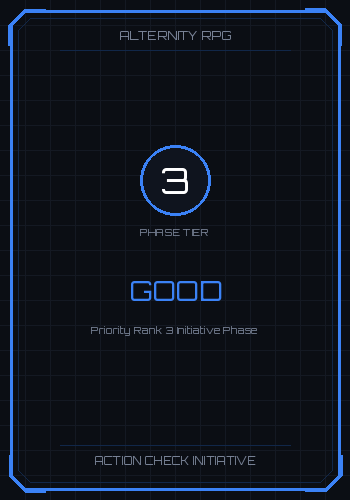
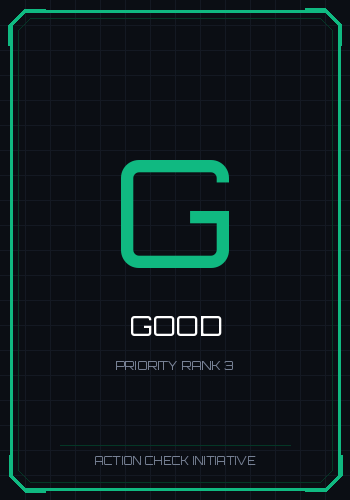
style: redesign initiative cards with huge AGOM letters and updated colors

diff --git a/generate_cards.py b/generate_cards.py
@@ -69,45 +69,24 @@ def draw_sci_fi_card(phase_name, priority, color_hex):
     # Bottom-Right
     draw.line([(w-10, h-45), (w-10, h-25), (w-25, h-10), (w-45, h-10)], fill=accent_color, width=4)
     
-    # Draw header text: "ALTERNITY"
-    font_alt = get_font(12)
-    draw.text((w/2, 35), "ALTERNITY RPG", fill=gray, font=font_alt, anchor="mm")
+    # Huge Central Letter (A, G, O, M)
+    central_letter = phase_name[0].upper()
+    font_large_letter = get_font(150)
+    draw.text((w/2, h/2 - 40), central_letter, fill=accent_color, font=font_large_letter, anchor="mm")
     
-    # Tech line under header
-    draw.line([(60, 50), (w-60, 50)], fill=accent_dim, width=1)
-    
-    # Priority circle in center-top
-    circle_r = 35
-    circle_center = (w/2, h/2 - 70)
-    draw.ellipse(
-        [(circle_center[0] - circle_r, circle_center[1] - circle_r),
-         (circle_center[0] + circle_r, circle_center[1] + circle_r)],
-        fill=(15, 20, 30),
-        outline=accent_color,
-        width=3
-    )
-    
-    # Main value inside circle (Priority number)
-    font_val = get_font(36)
-    draw.text(circle_center, str(priority), fill=white, font=font_val, anchor="mm")
-    
-    # "PHASE" label under circle
-    font_lbl = get_font(10)
-    draw.text((w/2, h/2 - 18), "PHASE TIER", fill=gray, font=font_lbl, anchor="mm")
-    
-    # Large Phase Name
+    # Full Phase Name below letter
     font_phase = get_font(28)
-    draw.text((w/2, h/2 + 40), phase_name.upper(), fill=accent_color, font=font_phase, anchor="mm")
+    draw.text((w/2, h/2 + 75), phase_name.upper(), fill=white, font=font_phase, anchor="mm")
     
-    # Subtitle with tech description
-    font_desc = get_font(10)
-    desc_text = f"Priority Rank {priority} Initiative Phase"
-    draw.text((w/2, h/2 + 80), desc_text, fill=gray, font=font_desc, anchor="mm")
+    # Subtitle with tech priority
+    font_desc = get_font(12)
+    desc_text = f"PRIORITY RANK {priority}"
+    draw.text((w/2, h/2 + 115), desc_text, fill=gray, font=font_desc, anchor="mm")
     
     # Tech lines at bottom
     draw.line([(60, h-55), (w-60, h-55)], fill=accent_dim, width=1)
     
-    # Footer "INITIATIVE SYSTEM"
+    # Footer "ACTION CHECK INITIATIVE"
     font_foot = get_font(11)
     draw.text((w/2, h-40), "ACTION CHECK INITIATIVE", fill=gray, font=font_foot, anchor="mm")
     
@@ -171,9 +150,10 @@ def draw_card_back():
 
 if __name__ == "__main__":
     print("Generating cards...")
+    # Amazing: Gold, Good: Green, Ordinary: Blue, Marginal: Grey
     draw_sci_fi_card("Amazing", 4, "#ffcc00")
-    draw_sci_fi_card("Good", 3, "#3b82f6")
-    draw_sci_fi_card("Ordinary", 2, "#10b981")
-    draw_sci_fi_card("Marginal", 1, "#f97316")
+    draw_sci_fi_card("Good", 3, "#10b981")
+    draw_sci_fi_card("Ordinary", 2, "#3b82f6")
+    draw_sci_fi_card("Marginal", 1, "#9ca3af")
     draw_card_back()
     print("All card graphics generated successfully!")
